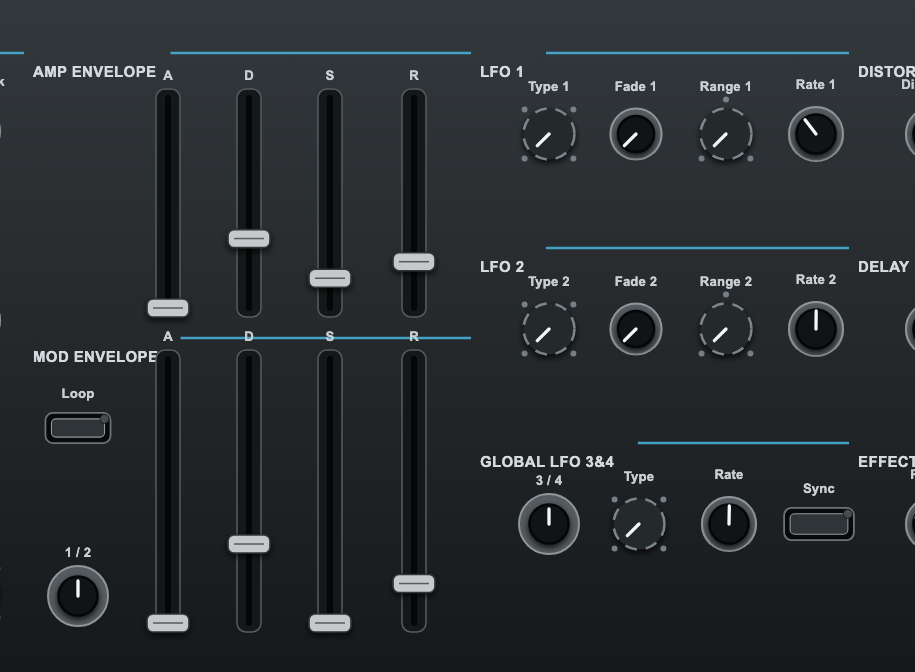
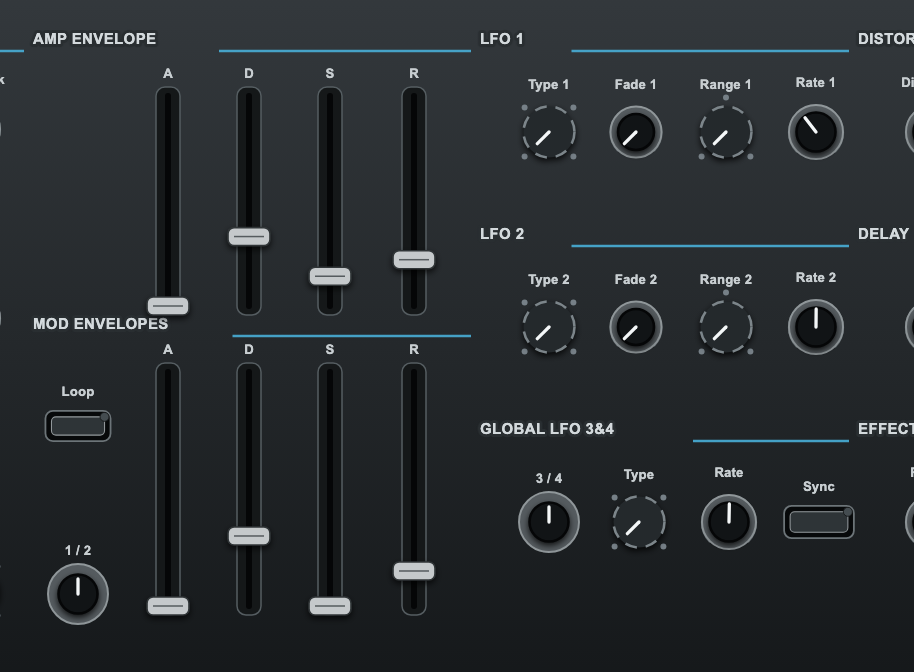
refine panel geometry and serigraphy alignment

diff --git a/src/components/SummitPanel.tsx b/src/components/SummitPanel.tsx
@@ -33,7 +33,13 @@ import {
   UnavailableControl,
   type ControlVisualState,
 } from "./panel-controls/SummitControls";
-import { panelLandmarkById, summitPanelLayout, type LayoutControl } from "./SummitPanelLayout";
+import {
+  panelLandmarkById,
+  SERIGRAPHY_LABEL_BASELINE_OFFSET,
+  serigraphyLineStartX,
+  summitPanelLayout,
+  type LayoutControl,
+} from "./SummitPanelLayout";
 
 const SUMMIT_REFERENCE_IMAGE_URL = new URL(
   "../../docs/references/summit-ui/summit-ui-reference-pack/summit-front-panel-highres.jpeg",
@@ -143,6 +149,7 @@ function StateOnlyControl({
         displayAreaId={control.displayAreaId}
         active={active}
         disabled={disabled}
+        showLabel={!control.id.startsWith("menu-page-")}
         onClick={onClick}
       />
     );
@@ -425,7 +432,8 @@ export const SummitPanel = memo(function SummitPanel({
           {summitPanelLayout.serigraphy.map((mark) => (
             <line
               key={mark.id}
-              x1={mark.x + Math.min(mark.width - 3, Math.max(14, mark.label.length * 3.4 + 5))}
+              data-serigraphy-id={mark.id}
+              x1={serigraphyLineStartX(mark)}
               y1={mark.y}
               x2={mark.x + mark.width}
               y2={mark.y}
@@ -435,7 +443,7 @@ export const SummitPanel = memo(function SummitPanel({
         <g className="panel-serigraphy-labels" aria-hidden="true">
           {summitPanelLayout.serigraphy.map((mark) => (
             <g key={mark.id} className="panel-serigraphy" data-serigraphy-id={mark.id}>
-              <text x={mark.x} y={mark.y + 8}>
+              <text x={mark.x} y={mark.y + SERIGRAPHY_LABEL_BASELINE_OFFSET}>
                 {mark.label}
               </text>
             </g>
@@ -451,11 +459,14 @@ export const SummitPanel = memo(function SummitPanel({
           selectedDisplayFieldId={selectedDisplayFieldId}
           selectedParameterId={selectedParameterId}
           onFieldSelect={onDisplayFieldSelect}
-          x={displayLandmark?.x ?? 164}
-          y={displayLandmark?.y ?? 135}
+          x={displayLandmark?.x ?? 183}
+          y={displayLandmark?.y ?? 133}
           width={displayLandmark?.width ?? 110}
-          height={displayLandmark?.height ?? 44}
+          height={displayLandmark?.height ?? 47}
         />
+        <text x="236.5" y="201" textAnchor="middle" className="control-label display-page-label">
+          ◀ PAGE ▶
+        </text>
 
         {summitPanelLayout.controls.map((control) => {
           if (control.stateOnly) {

diff --git a/src/components/SummitPanelLayout.test.ts b/src/components/SummitPanelLayout.test.ts
@@ -1,5 +1,10 @@
 import { describe, expect, it } from "vitest";
-import { panelRenderStats, summitPanelLayout } from "./SummitPanelLayout";
+import {
+  panelRenderStats,
+  SERIGRAPHY_LABEL_BASELINE_OFFSET,
+  serigraphyLineStartX,
+  summitPanelLayout,
+} from "./SummitPanelLayout";
 
 describe("photo-derived Summit panel layout", () => {
   it("keeps every registered control unique, in bounds and assigned to a section", () => {
@@ -46,7 +51,7 @@ describe("photo-derived Summit panel layout", () => {
     expect(summitPanelLayout.geometry).toMatchObject({
       referenceWidth: 1536,
       referenceHeight: 539,
-      verifiedAt: "2026-07-27",
+      verifiedAt: "2026-07-28",
     });
     const landmarkIds = new Set(summitPanelLayout.landmarks.map((landmark) => landmark.id));
     for (const id of [
@@ -78,6 +83,38 @@ describe("photo-derived Summit panel layout", () => {
       "reverb",
     ]) {
       expect(silkscreenIds.has(id)).toBe(true);
+    }
+  });
+
+  it("keeps section titles above cyan rules with a measured exclusion gap", () => {
+    expect(SERIGRAPHY_LABEL_BASELINE_OFFSET).toBeLessThan(0);
+    for (const mark of summitPanelLayout.serigraphy) {
+      const lineStart = serigraphyLineStartX(mark);
+      expect(lineStart).toBeGreaterThanOrEqual(mark.x + 18);
+      expect(lineStart).toBeLessThanOrEqual(mark.x + mark.width - 3);
+    }
+  });
+
+  it("matches the calibrated display cluster and repeated control rows", () => {
+    expect(summitPanelLayout.landmarks.find(({ id }) => id === "display")).toMatchObject({
+      x: 183,
+      y: 133,
+      width: 110,
+      height: 47,
+    });
+    expect(summitPanelLayout.controls.find(({ id }) => id === "menu-row-1")).toMatchObject({
+      x: 164,
+      y: 143,
+    });
+    expect(summitPanelLayout.controls.find(({ id }) => id === "menu-value")).toMatchObject({
+      x: 312,
+      y: 155,
+    });
+    for (const row of [1, 2, 3]) {
+      const expectedY = [91, 157, 222][row - 1];
+      expect(summitPanelLayout.controls.find(({ id }) => id === `osc${row}-coarse`)?.y).toBe(
+        expectedY,
+      );
     }
   });
 });

diff --git a/tests/e2e/panel-visual-qa.spec.ts b/tests/e2e/panel-visual-qa.spec.ts
@@ -51,6 +51,31 @@ test("capture calibrated Summit panel visual evidence", async ({ page }) => {
   });
   await screenshotReferenceRegion(
     page,
+    { x: 142, y: 52, width: 188, height: 154 },
+    "display-menu-area-zoom.png",
+  );
+  await screenshotReferenceRegion(
+    page,
+    { x: 452, y: 52, width: 310, height: 218 },
+    "oscillator-area-zoom.png",
+  );
+  await screenshotReferenceRegion(
+    page,
+    { x: 310, y: 52, width: 155, height: 218 },
+    "voice-arp-area-zoom.png",
+  );
+  await screenshotReferenceRegion(
+    page,
+    { x: 895, y: 52, width: 282, height: 218 },
+    "filter-envelopes-area-zoom.png",
+  );
+  await screenshotReferenceRegion(
+    page,
+    { x: 1165, y: 52, width: 310, height: 218 },
+    "lfo-effects-area-zoom.png",
+  );
+  await screenshotReferenceRegion(
+    page,
     { x: 300, y: 48, width: 180, height: 92 },
     "voice-area-150.png",
   );
@@ -74,7 +99,7 @@ test("capture calibrated Summit panel visual evidence", async ({ page }) => {
   await page.getByRole("button", { name: /^Diverge:/ }).click();
   await screenshotReferenceRegion(
     page,
-    { x: 154, y: 126, width: 132, height: 62 },
+    { x: 176, y: 126, width: 132, height: 64 },
     "oled-row-highlight.png",
   );
 
@@ -83,6 +108,11 @@ test("capture calibrated Summit panel visual evidence", async ({ page }) => {
   await page.locator(".summit-panel").screenshot({
     path: "/private/tmp/summit-overlay-150.png",
   });
+  await screenshotReferenceRegion(
+    page,
+    { x: 142, y: 52, width: 188, height: 154 },
+    "reference-overlay-display-menu.png",
+  );
   await screenshotReferenceRegion(
     page,
     { x: 300, y: 48, width: 180, height: 92 },

diff --git a/tests/e2e/panel-interactions.spec.ts b/tests/e2e/panel-interactions.spec.ts
@@ -147,4 +147,32 @@ test.describe("physical panel pointer hardening", () => {
         .evaluate((element) => getComputedStyle(element).userSelect),
     ).toBe("text");
   });
+
+  test("cyan section rules leave every macro-label clear", async ({ page }) => {
+    await openPhysicalPanel(page);
+
+    const conflicts = await page.locator(".panel-serigraphy-labels text").evaluateAll((labels) =>
+      labels.flatMap((label) => {
+        if (!(label instanceof SVGGraphicsElement)) return ["invalid-label"];
+        const id = label.parentElement?.getAttribute("data-serigraphy-id");
+        if (!id) return ["missing-id"];
+        const line = document.querySelector(
+          `.panel-serigraphy-lines line[data-serigraphy-id="${id}"]`,
+        );
+        if (!(line instanceof SVGLineElement)) return [`${id}:missing-line`];
+        const bounds = label.getBBox();
+        const lineStart = line.x1.baseVal.value;
+        const lineY = line.y1.baseVal.value;
+        const clearsTextHorizontally = lineStart >= bounds.x + bounds.width + 2;
+        const labelSitsAboveRule = bounds.y + bounds.height <= lineY + 0.5;
+        return clearsTextHorizontally && labelSitsAboveRule
+          ? []
+          : [
+              `${id}: text=${bounds.x},${bounds.y},${bounds.width},${bounds.height}; line=${lineStart},${lineY}`,
+            ];
+      }),
+    );
+
+    expect(conflicts).toEqual([]);
+  });
 });

diff --git a/src/components/panel-controls/SummitControls.tsx b/src/components/panel-controls/SummitControls.tsx
@@ -717,6 +717,7 @@ type HardwareElementProps = {
   displayAreaId?: string | undefined;
   active?: boolean;
   disabled?: boolean;
+  showLabel?: boolean;
   onClick?: (() => void) | undefined;
 };
 
@@ -730,6 +731,7 @@ export const SummitButton = memo(function SummitButton({
   displayAreaId,
   active = false,
   disabled = false,
+  showLabel = true,
   onClick,
 }: HardwareElementProps) {
   const width = Math.max(13, size * 1.55);
@@ -792,9 +794,11 @@ export const SummitButton = memo(function SummitButton({
           className="control-hit-target"
         />
       ) : null}
-      <text x={x} y={y - height / 2 - 4} textAnchor="middle" className="control-label">
-        {label}
-      </text>
+      {showLabel ? (
+        <text x={x} y={y - height / 2 - 4} textAnchor="middle" className="control-label">
+          {label}
+        </text>
+      ) : null}
       <rect
         x={x - width / 2}
         y={y - height / 2}

diff --git a/src/components/SummitPanelLayout.ts b/src/components/SummitPanelLayout.ts
@@ -33,6 +33,13 @@ export type LayoutSerigraphy = {
   width: number;
 };
 
+export const SERIGRAPHY_LABEL_BASELINE_OFFSET = -2.5;
+
+export function serigraphyLineStartX(mark: LayoutSerigraphy): number {
+  const measuredLabelClearance = mark.label.length * 4.5 + 8;
+  return mark.x + Math.min(mark.width - 3, Math.max(18, measuredLabelClearance));
+}
+
 export const summitPanelLayout = layoutJson as {
   schemaVersion: string;
   viewBox: string;

diff --git a/src/styles.css b/src/styles.css
@@ -1945,10 +1945,20 @@ td code {
 }
 .panel-serigraphy-labels text {
   fill: #d3d9dc;
+  stroke: #292e31;
+  stroke-width: 2.2px;
+  stroke-linejoin: round;
+  paint-order: stroke fill;
   font:
     750 5px Inter,
     sans-serif;
   letter-spacing: 0.025em;
+}
+.summit-panel .display-page-label {
+  fill: #aeb7bc;
+  font-size: 3.8px;
+  letter-spacing: 0.08em;
+  pointer-events: none;
 }
 .panel-calibration-toolbar {
   display: flex;

diff --git a/docs/qa/summit-operational-map/README.md b/docs/qa/summit-operational-map/README.md
@@ -1,6 +1,6 @@
 # Summit operational map — visual QA
 
-Captured on 2026-07-27 with the Playwright Chromium Retina project at
+Captured on 2026-07-28 with the Playwright Chromium Retina project at
 1440 CSS px wide (2880 physical px) unless otherwise noted.
 
 | Evidence              | File                                                           | What it verifies                                                                                          |
@@ -18,7 +18,13 @@ Captured on 2026-07-27 with the Playwright Chromium Retina project at
 | Final · ENV/LFO       | `envelopes-lfo-area-150.png`                                   | Corrected envelope slider columns, LFO 1/2 and Global LFO 3&4 at 150%                                     |
 | Final · Effects       | `effects-area-150.png`                                         | Distortion, Chorus, Delay, Effects and Reverb zones without card backgrounds                              |
 | Final · OLED row      | `oled-row-highlight.png`                                       | Horizontal clipped highlight with constant x, width, height and step                                      |
+| Cleanup · display     | `display-menu-area-zoom.png`                                   | OLED, row buttons 1/2/3, PAGE controls and VALUE aligned to the HR photo                                  |
+| Cleanup · oscillators | `oscillator-area-zoom.png`                                     | OSCILLATOR 1/2/3 titles clear of cyan rules and controls on y 91/157/222                                  |
+| Cleanup · voice/arp   | `voice-arp-area-zoom.png`                                      | VOICE and ARP macro-label spacing after the common title-line rule                                        |
+| Cleanup · filter/env  | `filter-envelopes-area-zoom.png`                               | FILTER, AMP ENVELOPE and MOD ENVELOPES with clear ADSR labels                                             |
+| Cleanup · LFO/FX      | `lfo-effects-area-zoom.png`                                    | LFO 1/2, GLOBAL LFO 3&4 and all FX titles without line intersections                                      |
 | Calibration · VOICE   | `reference-overlay-voice.png`, `voice-reference-vs-vector.png` | Photo/vector comparison at 50% opacity with measured control-centre markers                               |
+| Calibration · display | `reference-overlay-display-menu.png`                           | HR photo/vector comparison for OLED, 1/2/3 and VALUE                                                      |
 | Calibration · full    | `reference-overlay-full-panel.png`                             | Shared 1536 × 539 photo/vector viewBox, crosshair and all control centres                                 |
 | After · OLED browser  | `after-display-browser.png`                                    | Area/page browser, LFO page 10/10 and exact generated `PAGE ▶ × 9` path                                   |
 | After · checklist     | `after-patch-checklist.png`                                    | Complete Single checklist with physical/menu/matrix filters                                               |
@@ -33,18 +39,18 @@ Coordinates use the shared 1536 × 539 reference space.
 | Landmark                   | Reference                   | Final render assessment                                                               |
 | -------------------------- | --------------------------- | ------------------------------------------------------------------------------------- |
 | Complete chassis           | x 14, y 41, w 1484, h 446   | Aligned; continuous deck and wood cheeks retained                                     |
-| OLED                       | x 164, y 135, w 110, h 44   | Aligned; interactive four-row display replaces the former browser-only representation |
+| OLED                       | x 183, y 133, w 110, h 47   | Aligned; interactive four-row display replaces the former browser-only representation |
 | Pitch wheel                | x 63, y 329, w 30, h 84     | Aligned in the left performance bay                                                   |
 | Mod wheel                  | x 114, y 329, w 30, h 84    | Aligned beside pitch                                                                  |
 | Keyboard                   | x 185, y 285, w 1275, h 202 | Aligned; 61-key span and deck boundary retained                                       |
 | Voice                      | x 321, y 64, w 139, h 58    | Section retained; Mode +25/+20, Glide On +24/+20 and Glide Time +19/+0 px             |
 | Arpeggiator                | x 321, y 128, w 139, h 140  | Aligned as a vertical block                                                           |
-| Oscillator 1               | x 465, y 64, w 292, h 61    | Aligned as the first horizontal oscillator row                                        |
-| Oscillator 2               | x 465, y 129, w 292, h 61   | Aligned as the second horizontal oscillator row                                       |
-| Oscillator 3               | x 465, y 194, w 292, h 63   | Aligned as the third horizontal oscillator row                                        |
+| Oscillator 1               | x 465, y 64, w 292, h 61    | Controls moved to observed y 91; title remains above its cyan rule                    |
+| Oscillator 2               | x 465, y 129, w 292, h 61   | Controls moved to observed y 157; title remains above its cyan rule                   |
+| Oscillator 3               | x 465, y 194, w 292, h 63   | Controls moved to observed y 222; title remains above its cyan rule                   |
 | Filter                     | x 900, y 64, w 120, h 193   | Columns corrected to x 923/963/1003; no control extends into Amp Envelope             |
 | Amp Envelope               | x 1023, y 64, w 146, h 91   | Slider centres corrected to x 1068/1095/1122/1150                                     |
-| Mod Envelopes              | x 1023, y 159, w 146, h 98  | Same columns; travel corrected to 88 px and Loop/selector returned to the left        |
+| Mod Envelopes              | x 1023, y 159, w 146, h 98  | Same columns; 78 px travel separates ADSR labels from the title rule                  |
 | Effects                    | x 1297, y 64, w 168, h 193  | Aligned; Distortion, Chorus, Delay, Effects and Reverb remain distinct                |
 | SUMMIT wordmark            | upper-right deck            | Corrected to the observed upper-right position                                        |
 | Oxford / bi-timbral labels | keyboard boundary           | Both labels restored at the observed left/right positions                             |
@@ -57,6 +63,8 @@ Coordinates use the shared 1536 × 539 reference space.
   photographic perspective and soft edges prevent a meaningful sub-pixel claim.
 - Small knob legends are normalized for screen legibility; cyan rules are broken before each
   section label so they never cross text.
+- The HR photograph has soft edges and mild perspective; the display cluster and repeated control
+  rows are therefore reported to a 2 px visual tolerance rather than a sub-pixel claim.
 - The keyboard is a geometric 61-key representation and does not reproduce individual key wear or
   camera distortion.
 

diff --git a/docs/summit-panel-geometry.md b/docs/summit-panel-geometry.md
@@ -7,7 +7,7 @@
 - Page: 1
 - Local source: `docs/references/summit-ui/summit-ui-reference-pack/summit-front-panel-highres.jpeg`
 - Reference raster: 1536 × 539 px
-- Verified: 2026-07-27
+- Verified: 2026-07-28
 
 ## Reproducible coordinate procedure
 
@@ -20,6 +20,8 @@
 7. Validate coordinates, source metadata and required landmarks with `pnpm validate:catalogs`.
 8. In development, enable **Reference calibration**, keep photo and vector visible at 50% opacity,
    and check the same 1536 × 539 coordinate space with grid, crosshair and control-centre markers.
+9. For title rules, verify the rendered SVG text bounding box: the title baseline stays above the
+   cyan rule and the rule starts at least 2 px after the final glyph.
 
 ## Principal measured landmarks
 
@@ -28,7 +30,7 @@
 | Complete chassis | x 14, y 41, w 1484, h 446   |
 | Left wood cheek  | x 14, y 41, w 21, h 446     |
 | Right wood cheek | x 1474, y 41, w 24, h 446   |
-| OLED display     | x 164, y 135, w 110, h 44   |
+| OLED display     | x 183, y 133, w 110, h 47   |
 | Pitch wheel      | x 63, y 329, w 30, h 84     |
 | Mod wheel        | x 114, y 329, w 30, h 84    |
 | Keyboard         | x 185, y 285, w 1275, h 202 |
@@ -52,18 +54,25 @@
 The reference overlay exposed three concentrated errors; the remaining named landmarks above stayed
 within the retained one-pixel tracing tolerance.
 
-| Area                | Previous vector                    | Corrected reference coordinate        | Residual |
-| ------------------- | ---------------------------------- | ------------------------------------- | -------- |
-| VOICE · Mode        | centre x 340, y 91                 | x 365, y 111                          | ≤ 2 px   |
-| VOICE · Glide On    | centre x 381, y 91                 | x 405, y 111                          | ≤ 2 px   |
-| VOICE · Glide Time  | centre x 422, y 91                 | x 441, y 91                           | ≤ 2 px   |
-| ARP controls        | synthetic 3 × 3 grid               | observed centres x 360–441, y 154–244 | ≤ 3 px   |
-| FILTER controls     | synthetic rows extending to x 1040 | observed columns x 923, 963, 1003     | ≤ 3 px   |
-| AMP / MOD envelopes | slider columns x 1075–1159         | x 1068, 1095, 1122, 1150              | ≤ 2 px   |
+| Area                     | Previous vector                    | Corrected reference coordinate         | Residual |
+| ------------------------ | ---------------------------------- | -------------------------------------- | -------- |
+| DISPLAY · OLED           | x 164, y 135, w 110, h 44          | x 183, y 133, w 110, h 47              | ≤ 2 px   |
+| DISPLAY · row buttons    | column x 153, rows 139/156/173     | x 164, rows 143/160/177                | ≤ 2 px   |
+| DISPLAY · VALUE          | centre x 295, y 155                | x 312, y 155                           | ≤ 2 px   |
+| VOICE · Mode             | centre x 340, y 91                 | x 365, y 111                           | ≤ 2 px   |
+| VOICE · Glide On         | centre x 381, y 91                 | x 405, y 111                           | ≤ 2 px   |
+| VOICE · Glide Time       | centre x 422, y 91                 | x 441, y 91                            | ≤ 2 px   |
+| ARP controls             | synthetic 3 × 3 grid               | observed centres x 360–441, y 154–244  | ≤ 3 px   |
+| OSC / FM / MIXER rows    | y 78/145/212                       | observed rows y 91/157/222             | ≤ 2 px   |
+| FILTER controls          | synthetic rows extending to x 1040 | observed columns x 923, 963, 1003      | ≤ 3 px   |
+| AMP / MOD envelopes      | slider columns x 1075–1159         | x 1068, 1095, 1122, 1150               | ≤ 2 px   |
+| MOD envelope label space | slider travel 88 px                | 78 px, preserving the observed centres | ≤ 3 px   |
 
-The cyan serigraphy is rendered as a line layer followed by a label layer. Each rule starts after
-its label-width gap, so no line is painted through a section title and no card-like background is
-introduced.
+The cyan serigraphy is rendered as a line layer followed by a label exclusion/paint layer and then
+the local control labels. Every macro-label uses one baseline rule 2.5 px above its section line.
+Each cyan rule starts after a conservative measured-width clearance, and the text paint masks only
+the immediate glyph edge rather than drawing a box or card. The Playwright geometry check compares
+the real SVG bounding boxes and fails if a rule reaches a title or if a title drops onto its rule.
 
 ## Rendering contract
 
@@ -71,4 +80,5 @@ introduced.
 - The visible grouping comes from measured cyan rules and silkscreen labels.
 - OSCILLATOR 1, 2 and 3 are distinct rows.
 - Distortion, Chorus, Delay, Effects and Reverb retain their separate observed zones.
+- The OLED, row-button column, page controls and VALUE encoder retain their measured relative spacing.
 - Software values are hidden in clean hardware mode and shown only for hover, selection, Setup Mode or explicit overlay.
